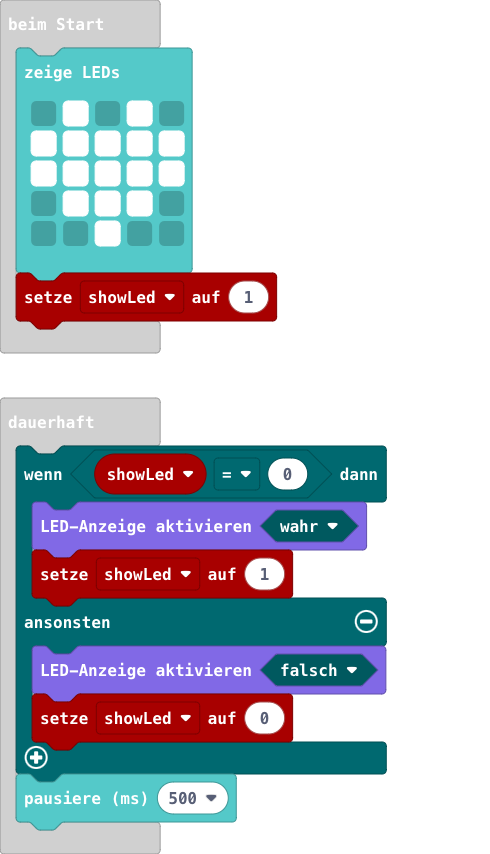
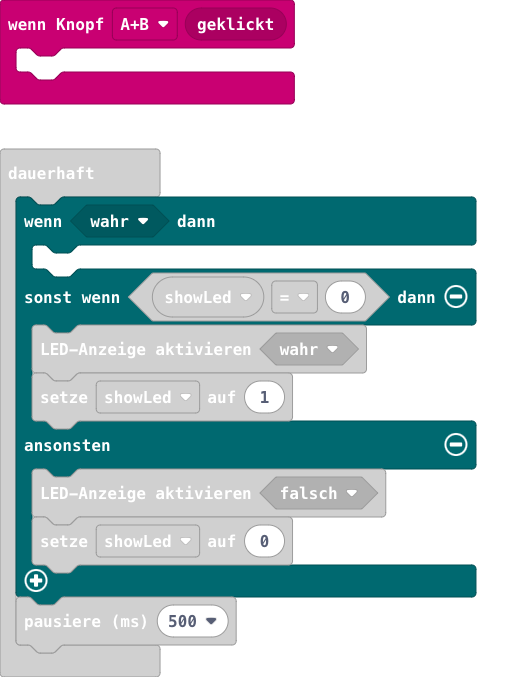
Aktualisiere main.blocks, main.ts

diff --git a/main.ts b/main.ts
@@ -1,3 +1,6 @@
+input.onButtonEvent(Button.AB, input.buttonEventClick(), function () {
+	
+})
 basic.showLeds(`
     . # . # .
     # # # # #
@@ -7,7 +10,9 @@ basic.showLeds(`
     `)
 let showLed = 1
 basic.forever(function () {
-    if (showLed == 0) {
+    if (true) {
+    	
+    } else if (showLed == 0) {
         led.enable(true)
         showLed = 1
     } else {
